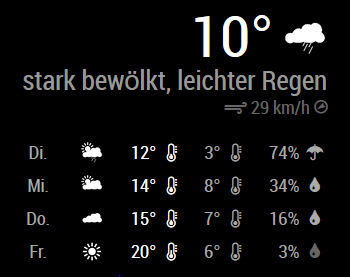
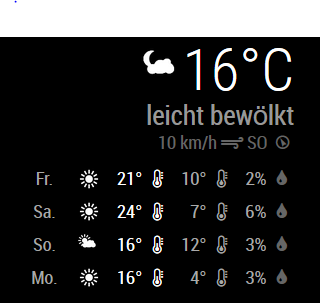
Reorganized current data layout

diff --git a/test/unit/MMM-RBB-Weather-Test.js b/test/unit/MMM-RBB-Weather-Test.js
@@ -323,7 +323,7 @@ describe("MMM-RBB-Weather", () => {
             let div = module.getCurrentDiv(data);
 
             // Assert
-            let expected = '<div class="current"><div class="large bright"><span>21°</span><img class="weather-icon" src="https://www.rbb24.de/basis/grafik/icons/wetter/120000.png"></div><div class="medium normal">wolkig</div><div class="small dimmed">8 km/h <i class="wi wi-strong-wind"></i> WIND_NE <i class="wi wi-wind from-50-deg fa-fw"></i></div></div>';
+            let expected = '<div class="current"><div class="large bright light"><img class="weather-icon" src="https://www.rbb24.de/basis/grafik/icons/wetter/120000.png"><span>21°C</span></div><div class="medium normal">wolkig</div><div class="small dimmed">8 km/h <i class="wi wi-strong-wind"></i> WIND_NE <i class="wi wi-wind from-50-deg fa-fw"></i></div></div>';
             assert.equal(div.outerHTML, expected);
         });
 
@@ -337,7 +337,7 @@ describe("MMM-RBB-Weather", () => {
             let div = module.getCurrentDiv(data);
 
             // Assert
-            let expected = '<div class="current"><div class="large bright"><span>21°</span><img class="weather-icon" src="https://www.rbb24.de/basis/grafik/icons/wetter/120000.png"></div><div class="medium normal">wolkig</div></div>';
+            let expected = '<div class="current"><div class="large bright light"><img class="weather-icon" src="https://www.rbb24.de/basis/grafik/icons/wetter/120000.png"><span>21°C</span></div><div class="medium normal">wolkig</div></div>';
             assert.equal(div.outerHTML, expected);
         });
     });

diff --git a/MMM-RBB-Weather.js b/MMM-RBB-Weather.js
@@ -233,18 +233,18 @@ Module.register("MMM-RBB-Weather", {
 
         // Data wrapper
         let dataDiv = document.createElement('div');
-        dataDiv.className = "large bright";
-
-        // Temparature
-        let temp = document.createElement('span');
-        temp.innerHTML = data.temp + "°";
-        dataDiv.appendChild(temp);
+        dataDiv.className = "large bright light";
 
         // Icon
         let icon = document.createElement('img');
         icon.className = "weather-icon";
         icon.src = `https://www.rbb24.de/basis/grafik/icons/wetter/${data.nww}.png`;
         dataDiv.appendChild(icon);
+
+        // Temparature
+        let tempDiv = document.createElement('span');
+        tempDiv.innerHTML = `${data.temp}°C`;
+        dataDiv.appendChild(tempDiv);
 
         // Append data div (temp and icon) to wrapper
         wrapper.appendChild(dataDiv);

diff --git a/MMM-RBB-Weather.css b/MMM-RBB-Weather.css
@@ -10,7 +10,7 @@
  */
 
 div.current {
-    margin-bottom: 20px;
+    margin-bottom: 10px;
 }
 
 img.weather-icon {
